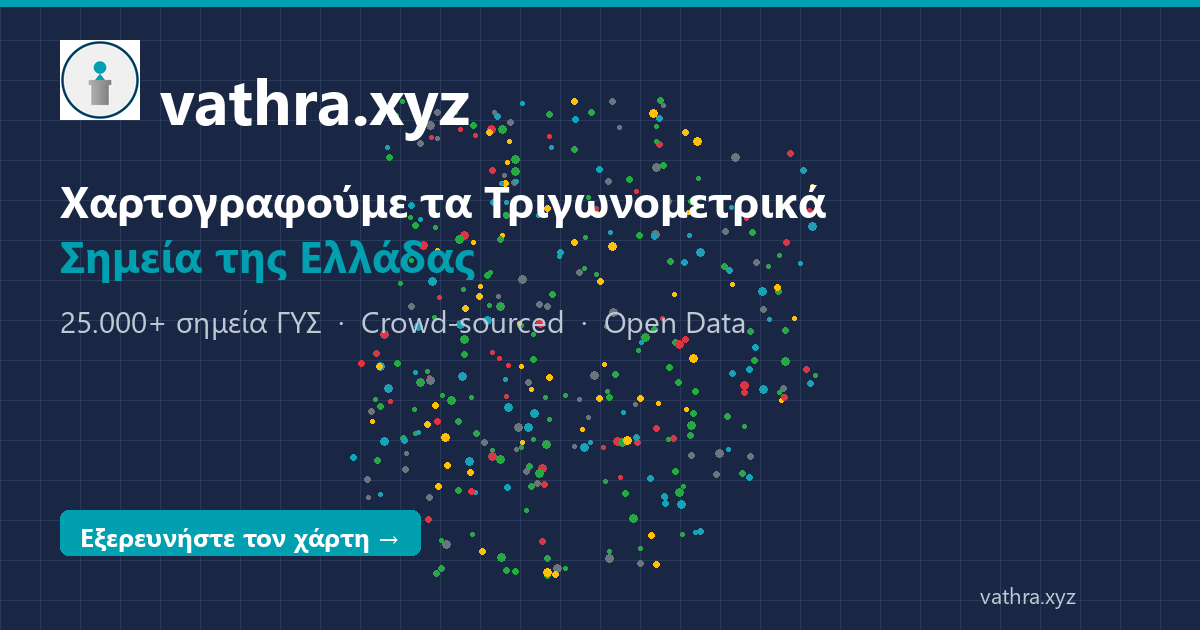
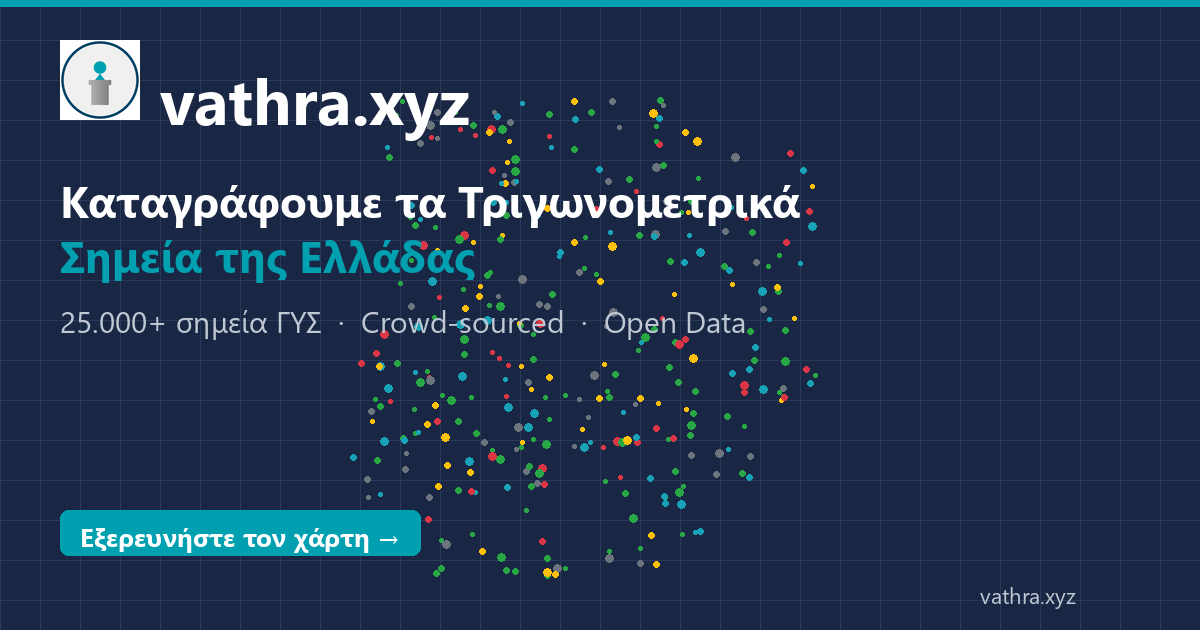
Fix OG wording: Χαρτογραφούμε → Καταγράφουμε

Changed region(s): [[0.0308, 0.2714, 0.7092, 0.3619]]

diff --git a/frontend/index.html b/frontend/index.html
@@ -12,7 +12,7 @@
     <!-- Open Graph / Facebook -->
     <meta property="og:type" content="website" />
     <meta property="og:url" content="https://vathra.xyz/" />
-    <meta property="og:title" content="vathra.xyz — Χαρτογραφούμε τα Τριγωνομετρικά Σημεία της Ελλάδας" />
+    <meta property="og:title" content="vathra.xyz — Καταγράφουμε τα Τριγωνομετρικά Σημεία της Ελλάδας" />
     <meta property="og:description" content="Διαδραστικός χάρτης 25.000+ τριγωνομετρικών σημείων ΓΥΣ. Αναφέρετε την κατάσταση, ανεβάστε φωτογραφίες, εξερευνήστε την γεωδαιτική κληρονομιά της Ελλάδας." />
     <meta property="og:image" content="https://vathra.xyz/og-image.png" />
     <meta property="og:image:width" content="1200" />
@@ -23,7 +23,7 @@
 
     <!-- Twitter Card -->
     <meta name="twitter:card" content="summary_large_image" />
-    <meta name="twitter:title" content="vathra.xyz — Χαρτογραφούμε τα Τριγωνομετρικά Σημεία της Ελλάδας" />
+    <meta name="twitter:title" content="vathra.xyz — Καταγράφουμε τα Τριγωνομετρικά Σημεία της Ελλάδας" />
     <meta name="twitter:description" content="Διαδραστικός χάρτης 25.000+ τριγωνομετρικών σημείων ΓΥΣ. Crowd-sourced καταγραφή κατάστασης βάθρων σε όλη την Ελλάδα." />
     <meta name="twitter:image" content="https://vathra.xyz/og-image.png" />
 

diff --git a/scripts/generate-og-image.py b/scripts/generate-og-image.py
@@ -76,7 +76,7 @@ draw.text((160, 55), "vathra.xyz", fill=WHITE, font=font_title)
 
 # Headline (Greek)
 y = 170
-draw.text((60, y), "Χαρτογραφούμε τα Τριγωνομετρικά", fill=WHITE, font=get_font(44, bold=True))
+draw.text((60, y), "Καταγράφουμε τα Τριγωνομετρικά", fill=WHITE, font=get_font(44, bold=True))
 draw.text((60, y + 55), "Σημεία της Ελλάδας", fill=ACCENT, font=get_font(44, bold=True))
 
 # Subtitle
